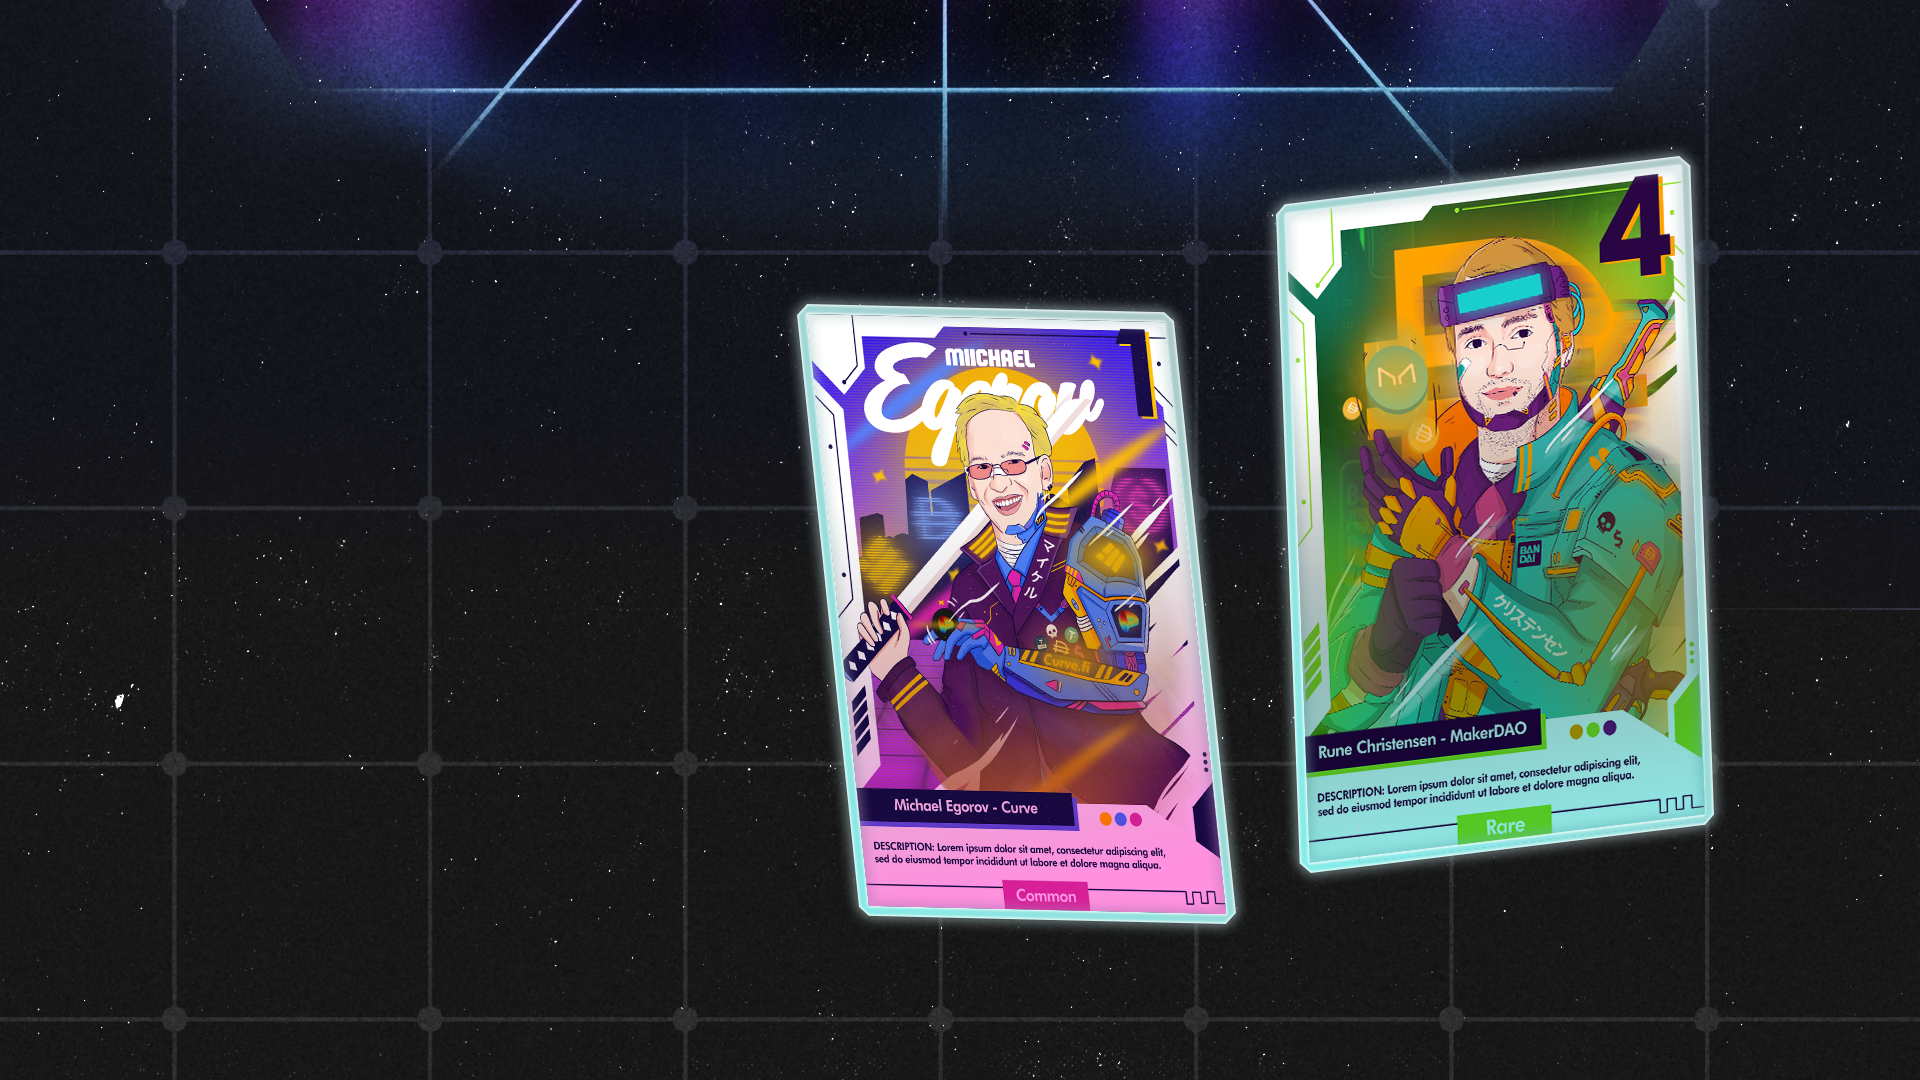
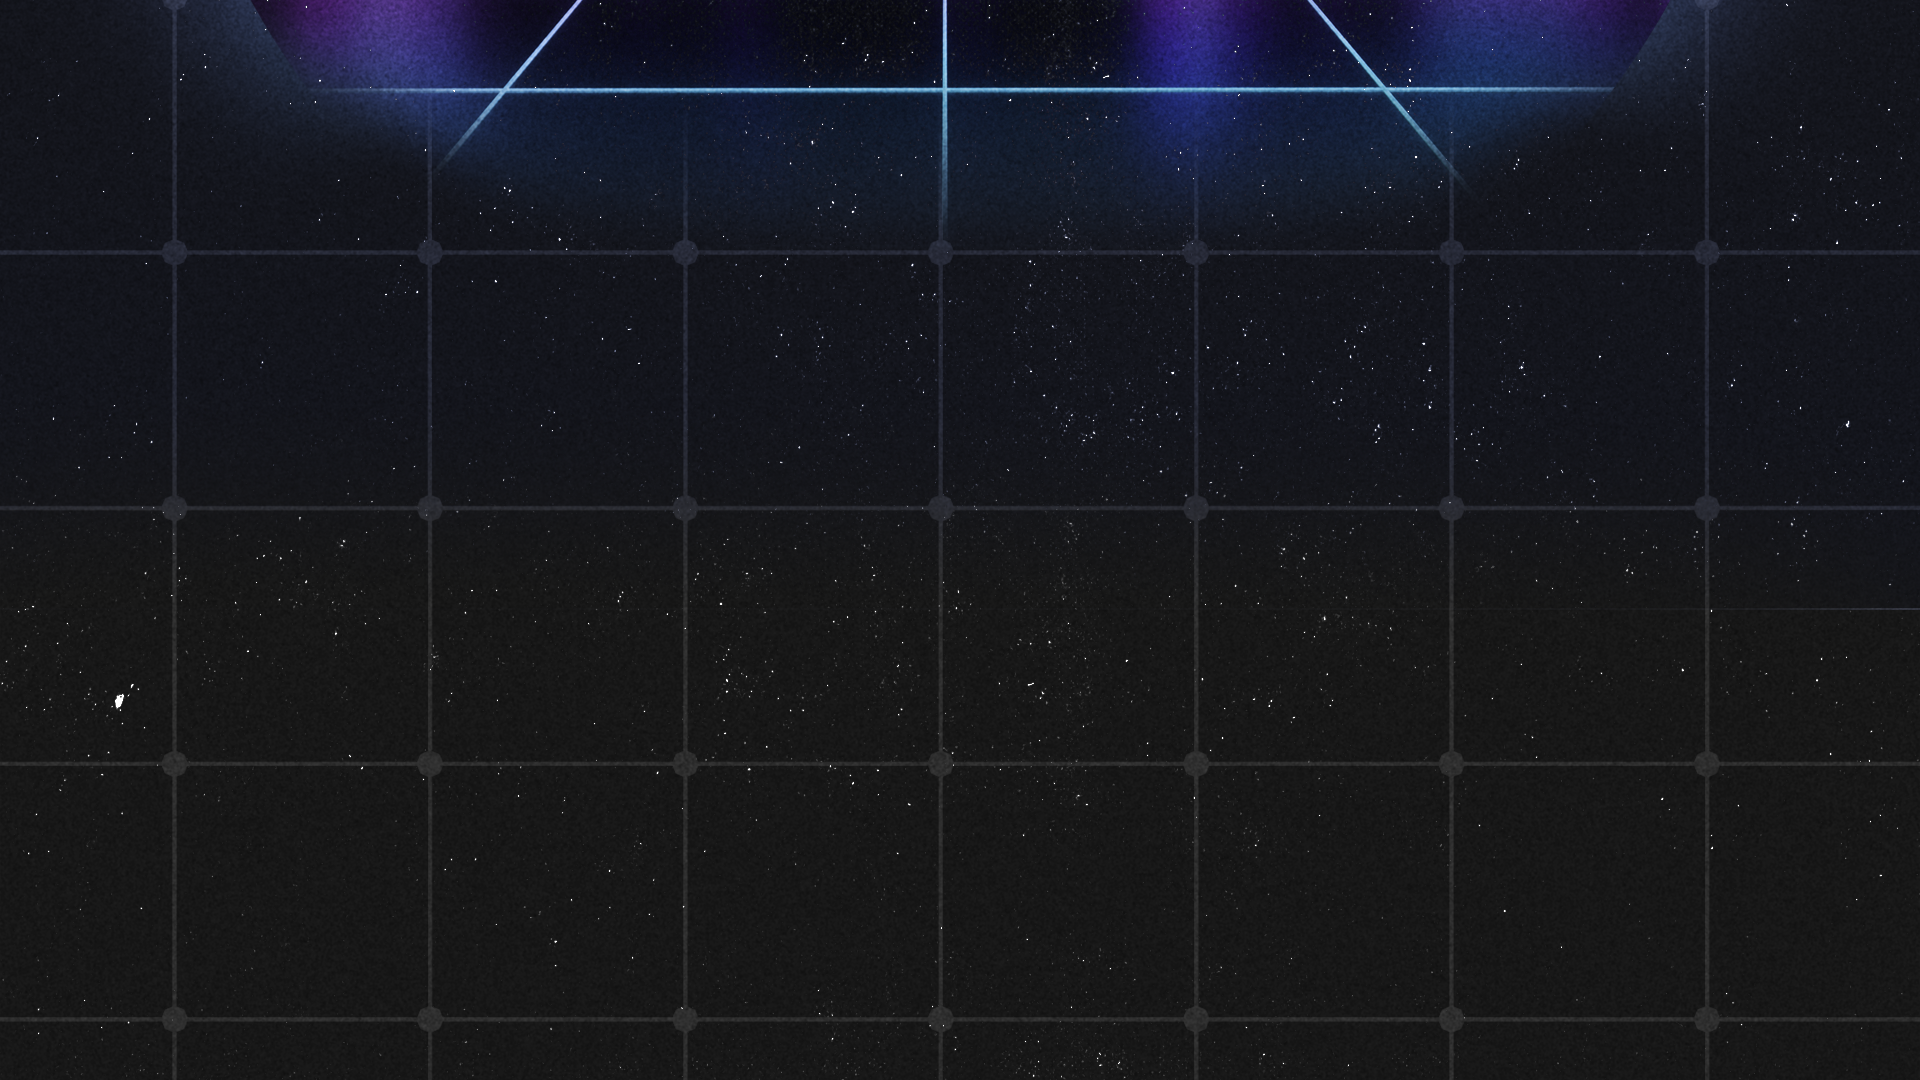
update landing page background

Changed region(s): [[0.4062, 0.1222, 0.9062, 0.8861]]

diff --git a/src/pages/LandingPage.js b/src/pages/LandingPage.js
@@ -103,6 +103,14 @@ const LandingPageWrapper = styled.div`
 			p {
 				max-width: ${props => props.theme.widthRatio * 635}px;
 			}
+			
+			.cards {
+				position: absolute;
+				width: ${props => props.theme.widthRatio * 944}px;
+				height: ${props => props.theme.heightRatio * 795}px;
+				top: ${props => props.theme.heightRatio * 143}px;
+    		right: ${props => props.theme.widthRatio * 193}px;
+			}
 	
 			button {
 				margin-top: ${props => props.theme.heightRatio * 197}px;
@@ -131,10 +139,25 @@ const LandingPageWrapper = styled.div`
 			button {
 				margin-left: -${props => props.theme.widthRatio * 20}px;
 			}
+			
+			.battle {
+				position: absolute;
+				
+				bottom: -${props => props.theme.heightRatio * 150}px;
+				right: -${props => props.theme.widthRatio * 150}px;
+			}
 		}
 	
 		.section-4 {
 			background-image: url("/static/images/bg/pages/landing-page/landing-page-section-4-bg.png");
+			
+			.battle {
+				position: absolute;
+				width: ${props => props.theme.widthRatio * 1558}px;
+        height: ${props => props.theme.heightRatio * 953}px;
+				top: -${props => props.theme.heightRatio * 772}px;
+    		right: -${props => props.theme.widthRatio * 115}px;
+			}
 	
 			.fp-tableCell {
 				display: flex;
@@ -220,18 +243,33 @@ const LandingPage = () => {
 										<h1>Get hero cards that will kick  villain’s ass</h1>
 										<p>Don’t forget the genesis heroes that have brought the decentralised world. With their help you will be able to fight and defeat the corporate villains.</p>
 									</div>
+									<img
+										src={`/static/images/pages/landing-page/cards.png`}
+										alt="cards"
+										className="cards"
+									/>
 									<button className='hover-effect1'>GET CARDS</button>
 								</div>
 
-								<div className={`section-3 section 'd-flex' flex-column`}>
+								<div className={`section-3 section 'd-flex' flex-column position-relative`}>
 									<div>
 										<h1>Stake Heroes, Lock Villains, Earn NDR </h1>
 										<p>Get rewarded for your hard work. Stake your Hero cards or Lock up defeated villains and get rewarded with NDR tokens. That's how justice is served.</p>
 									</div>
 									<button className='hover-effect1'>GET CARDS</button>
+									{/*<img*/}
+									{/*	src={`/static/images/pages/landing-page/battle.png`}*/}
+									{/*	alt="battle"*/}
+									{/*	className="battle"*/}
+									{/*/>*/}
 								</div>
 
-								<div className={`section-4 section`}>
+								<div className={`section-4 section position-relative`}>
+									<img
+										src={`/static/images/pages/landing-page/battle.png`}
+										alt="battle"
+										className="battle"
+									/>
 									<div className='icons-wrapper d-flex align-items-start w-100 justify-content-between'>
 										<div className='d-flex flex-column align-items-center'>
 											<img src={`/static/images/icons/inflationary.png`} alt='inflationary'/>
